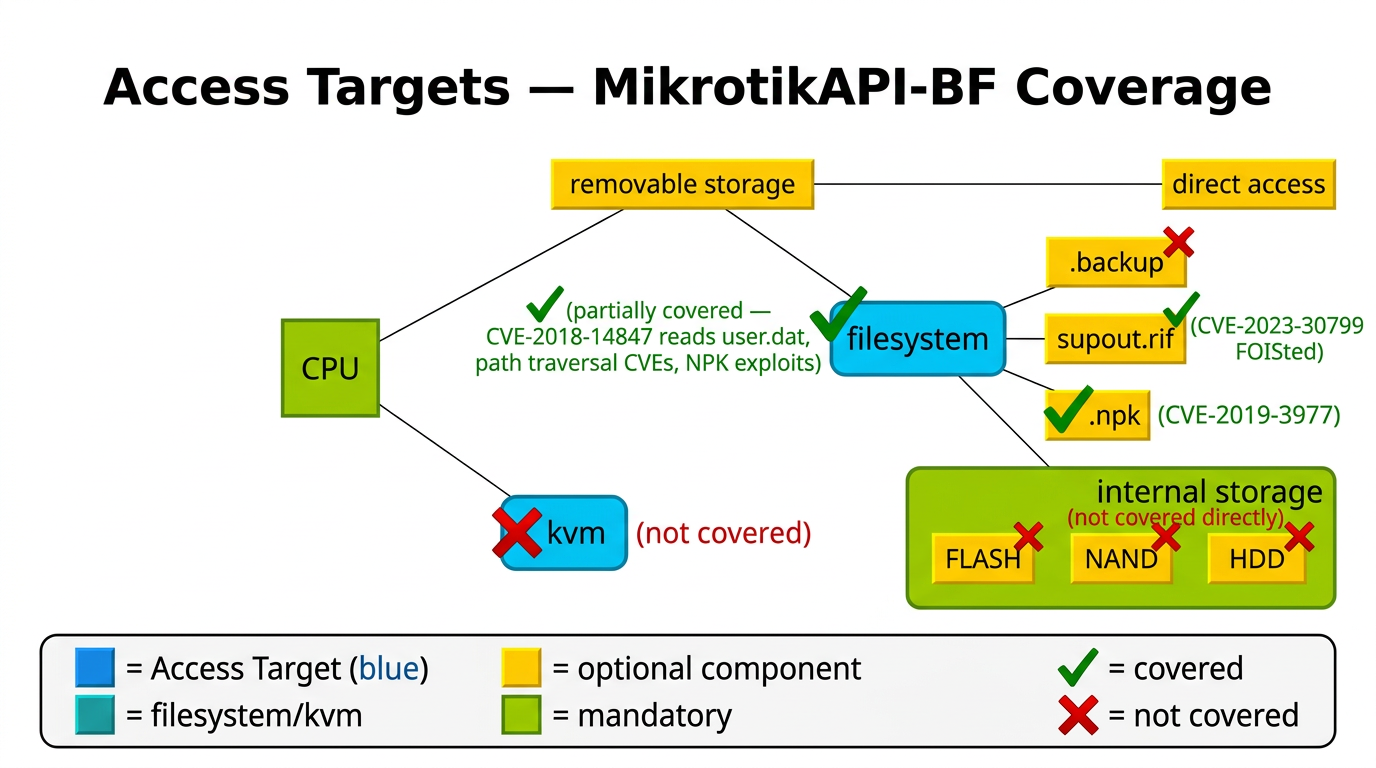
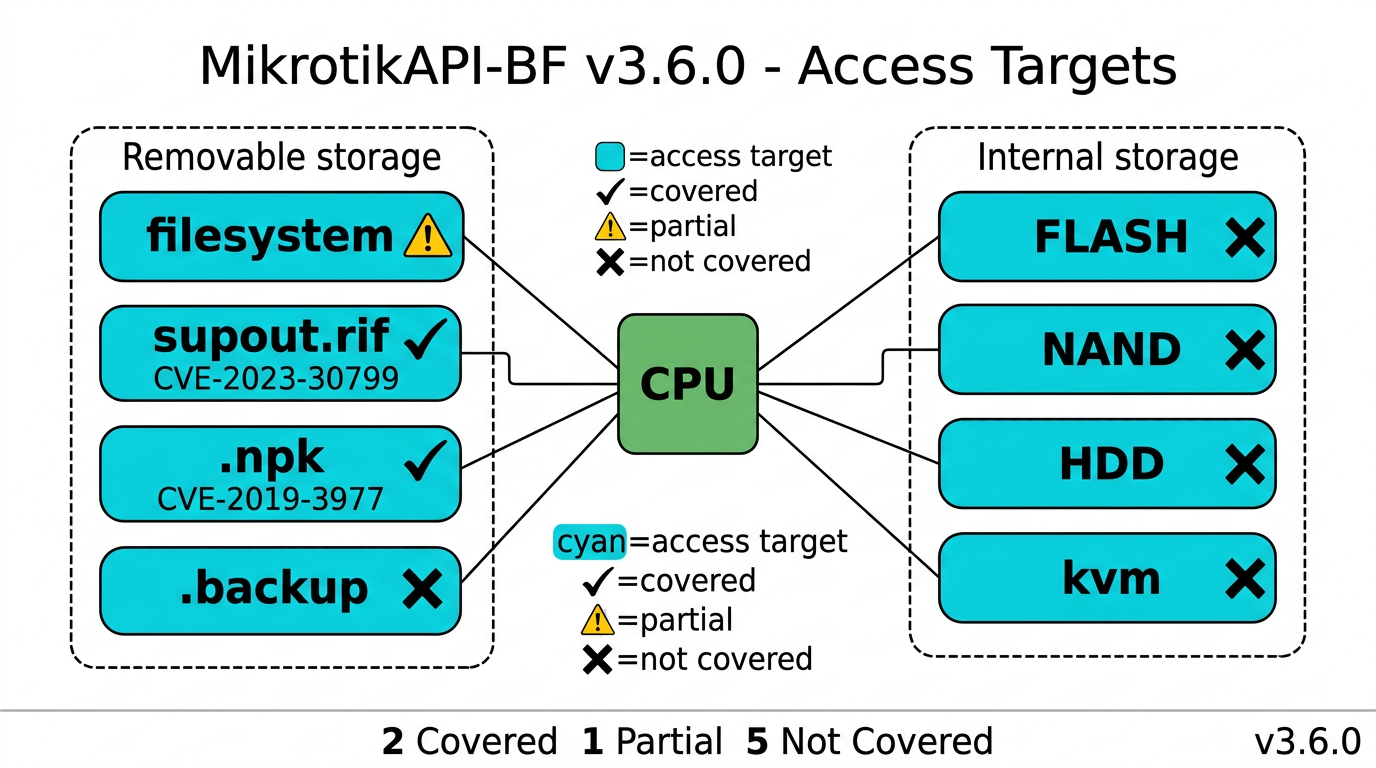
feat: harden CI publish pipeline, add secret-scan workflow, regenerate v3.6.0 diagrams, update pip install docs
Security hardening:
- publish-pypi.yml: removed workflow_dispatch, added actor guard (mrhenrike only), branch validation (must be on main), secret leak check before publish, OIDC trusted publishing preserved
- publish-testpypi.yml: added actor guard for manual dispatch
- secret-scan.yml: new Gitleaks-based CI job to block .env/token commits on every push/PR

Diagrams:
- img/mikrotik_full_attack_surface.png: regenerated for v3.6.0
- img/mikrotik_access_vectors.png: regenerated for v3.6.0
- img/mikrotik_access_targets.png: regenerated for v3.6.0 with CVE annotations

Docs:
- README.md + README.pt-BR.md: expanded pip install section with upgrade and NSE auto-install note

diff --git a/README.md b/README.md
@@ -76,22 +76,30 @@ Five Lua scripts in `nse/` for Nmap integration:
 
 ## 🚀 Quick Start
 
-### Install via pip
+### Install via pip (recommended)
 
 ```bash
-pip install git+https://github.com/mrhenrike/MikrotikAPI-BF.git
-# or (when on PyPI):
+# Latest stable release from PyPI
 pip install mikrotikapi-bf
 
+# Upgrade to the latest version
+pip install --upgrade mikrotikapi-bf
+
+# Verify installation
 mikrotikapi-bf --help
-mikrotikapi-bf --nse-path    # prints NSE scripts directory for Nmap
+mikrotikapi-bf --nse-path    # prints bundled NSE scripts directory for Nmap
 ```
 
-### Install from source
+> **NSE scripts** are installed automatically to Nmap's scripts directory during `pip install`.  
+> To install them manually: `mikrotikapi-install-nse`
+
+### Install from source (development)
 
 ```bash
 git clone https://github.com/mrhenrike/MikrotikAPI-BF.git
 cd MikrotikAPI-BF
+pip install -e .          # editable install — includes NSE auto-install hook
+# or without the hook:
 pip install -r requirements.txt
 python mikrotikapi-bf.py --help
 ```

diff --git a/README.pt-BR.md b/README.pt-BR.md
@@ -62,22 +62,30 @@
 
 ## 🚀 Início Rápido
 
-### Instalar via pip
+### Instalar via pip (recomendado)
 
 ```bash
-pip install git+https://github.com/mrhenrike/MikrotikAPI-BF.git
-# ou (quando no PyPI):
+# Versão estável mais recente direto do PyPI
 pip install mikrotikapi-bf
 
+# Atualizar para a versão mais recente
+pip install --upgrade mikrotikapi-bf
+
+# Verificar instalação
 mikrotikapi-bf --help
-mikrotikapi-bf --nse-path    # caminho dos scripts NSE para o Nmap
+mikrotikapi-bf --nse-path    # caminho dos scripts NSE instalados para o Nmap
 ```
 
-### Instalar do código-fonte
+> **Scripts NSE** são instalados automaticamente no diretório do Nmap durante o `pip install`.  
+> Para instalar manualmente: `mikrotikapi-install-nse`
+
+### Instalar do código-fonte (desenvolvimento)
 
 ```bash
 git clone https://github.com/mrhenrike/MikrotikAPI-BF.git
 cd MikrotikAPI-BF
+pip install -e .          # instalação editável — inclui hook NSE automático
+# ou sem o hook:
 pip install -r requirements.txt
 python mikrotikapi-bf.py --help
 ```
